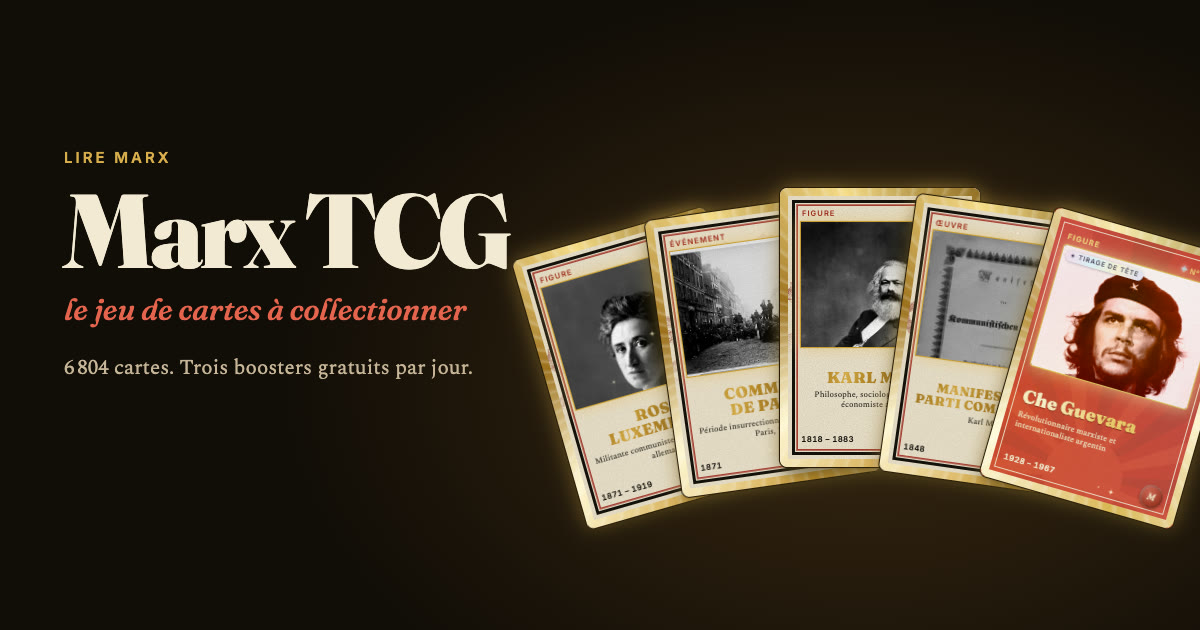
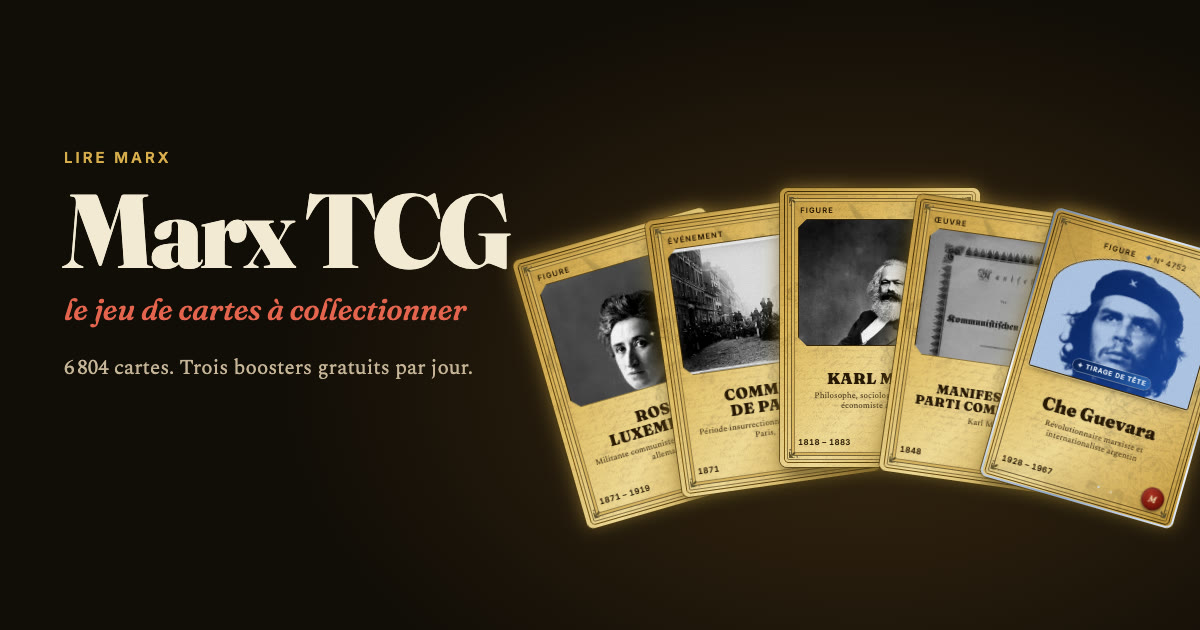
Cartes : le tableau des rangs et l'image de partage suivent le nouveau design

Changed region(s): [[0.4317, 0.2714, 1.0, 0.8444]]

diff --git a/cartes/index.html b/cartes/index.html
@@ -401,12 +401,12 @@ html[data-mode="jour"] .cpt-boost, html[data-mode="edition"] .cpt-boost{backgrou
     <p class="cx-sous">Le rang d'une carte se dit comme l'état d'un imprimé. Les pourcentages sont ceux d'une carte tirée au hasard dans un booster.</p>
 <!-- MARX-TCG:RANGS:DÉBUT — DÉRIVÉ par tools/cartes.mjs -->
 <table class="rangs"><thead><tr><th>Rang</th><th>Ce qui le distingue</th><th>Cartes</th><th>Chance par carte</th></tr></thead><tbody>
-<tr><td>Manuscrit</td><td>animé : feuille d’or, lumière, éclats, sceau de cire</td><td>73</td><td>0,7&nbsp;%</td></tr>
-<tr><td>Édition originale</td><td>des fers dorés aux angles</td><td>215</td><td>4,1&nbsp;%</td></tr>
+<tr><td>Manuscrit</td><td>animé : toute la carte en feuille d’or, une lumière, des éclats, un sceau de cire</td><td>73</td><td>0,7&nbsp;%</td></tr>
+<tr><td>Édition originale</td><td>un filet d’or qui chatoie, des fers dorés aux angles</td><td>215</td><td>4,1&nbsp;%</td></tr>
 <tr><td>Édition reliée</td><td>un filet d’or</td><td>835</td><td>12,4&nbsp;%</td></tr>
 <tr><td>Brochure</td><td>deux agrafes sur la tranche</td><td>1&#8239;663</td><td>34,8&nbsp;%</td></tr>
-<tr><td>Tract</td><td>un papier pauvre, très grainé</td><td>4&#8239;018</td><td>48&nbsp;%</td></tr>
-<tr><td>Tirage de tête</td><td>la version brillante, sur papier nacré, de n’importe quelle carte</td><td>6&#8239;804</td><td>2&nbsp;%</td></tr>
+<tr><td>Tract</td><td>un papier journal, gris et grainé</td><td>4&#8239;018</td><td>48&nbsp;%</td></tr>
+<tr><td>Tirage de tête</td><td>la version brillante de n’importe quelle carte : un cyanotype bleu dont l’image bouge, cerné d’argent</td><td>6&#8239;804</td><td>2&nbsp;%</td></tr>
 </tbody></table>
 <!-- MARX-TCG:RANGS:FIN -->
   </section>
